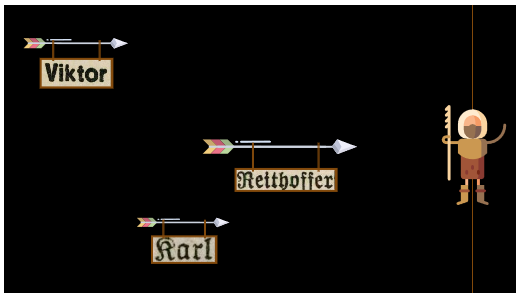
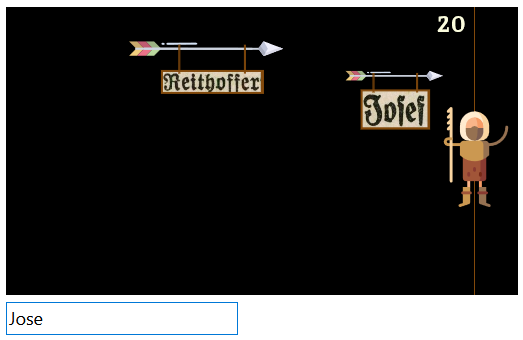
Updates

Changed region(s): [[0.0, 0.0, 1.0, 1.0], [0.3699, 0.4561, 0.7091, 0.6689]]

diff --git a/content/english/about/projects/zeitshift.md b/content/english/about/projects/zeitshift.md
@@ -1,7 +1,7 @@
 ---
 title: "Zeit.shift"
 description: "Digital in yesterday's future: Preservation, development and communication of the cultural and textual heritage of the whole of Tyrol"
-lead: "Digital in yesterday's future: Preservation, development and communication of the cultural and textual heritage of the whole of Tyrol"
+lead: "Digital in yesterday's future: Preservation, development and communication of the cultural and textual heritage of the whole of Tyrol."
 date: 2020-10-13T15:21:01+02:00
 lastmod: 2020-10-13T15:21:01+02:00
 draft: false
@@ -26,17 +26,48 @@ The project focuses on **historical newspapers**, which are currently scattered 
 
 **The mutual collaboration between researchers, librarians and citizens** will help improve the functionality of the web platform for users worldwide and serve as an **opportunity for local and foreign communities to learn more about** the historical and cultural heritage of **Tyrol**.
 
+The active participation of citizens is crucial to the success of the project. Given the large number of newspapers (approx. 500,000 pages), **the more people help curate the data and spread the word** about Zeit.shift, **the more searchable the newspaper corpus becomes and the longer the historical memory of Tyrol will be preserved**.
+
+### Digitisation
+
+Zeit.shift is scanning decaying newspapers and running the scans through Optical Character Recognition (OCR). OCR is the automatic conversion of printed text (e.g. an image of a newspaper page!) into digital format (e.g. a Word document). This process often introduces errors in the digital text, especially when dealing with historical sources: issues such as faded ink, complex fonts or poor quality scans affect the recognition capabilities of the OCR machine. A digital text containing OCR mistakes is known as "noisy" text. The noisier the text, the harder it is to use and search.
+
+Here is an example of a "noisy" conversion of a digitised newspaper in Zeit.shift:
+
+EXAMPLE
+
 
 ### How can I contribute?
 
-Zeit.shift develops games and activities to crowdsource data from citizens while guiding them through the materials to explore the history and culture of Tyrol.
+We need your help to do two things:
+
+1. Correct OCR mistakes
+2. Tag and classify words (names of people and places, parts-of-speech, etc.)
+
+You don't need to meet any prerequisites. Anyone can contribute!
+
+To make these tasks more engaging, we're developing games and activities designed to help you explore this wonderful collection of newspapers and the heritage of Tyrol as you contribute data! So far, we've developed one game and one activity.
 
 
-The active participation of citizens is crucial to the success of the project. Given the large number of newspapers (approx. 500,000 pages), **the more people help curate the data and spread the word** about Zeit.shift, **the more searchable the corpus becomes and the longer the historical memory of Tyrol will be preserved**.
+##### Game preview: OCR correction
 
-### Prototype
+This game adapts [Typespeed](http://typespeed.sourceforge.net/). The game comes with different scenarios. In the "Who Killed Ötzi?" scenario shown below, arrows carrying words in Fraktur script fly from the left to the right of the screen in the direction of [Ötzi the Iceman](https://www.iceman.it/en/the-iceman/). These words are people names extracted from the Tyrolean newspapers. The goal of the game is simple: players must type the names as fast as possible before they reach and kill Ötzi! The more words are typed the longer Ötzi lives and the more points the player collects. When Ötzi dies, players are shown the original newspaper page from which the killing name (the killer!) was taken, allowing them to explore its context.
 
-The prototype games and activities of the Zeit.shift are developed on a small selection of the entire project dataset, illustrated in the table below.
+{{<figure src="/images/wko.png" alt="Game preview" caption="<em>'Who killed Ötzi?' game preview.</em>" width="100%" class="border-0">}}
+
+##### Activity preview: Mapping advertisements
+
+In this activity, citizens geotag and, optionally, transcribe historical advertisements published in the newspapers in order to reconstruct the commercial landscape of 19th and 20th century Tyrol. Many shops from the time still exist today!
+
+{{<figure src="/images/historypin.png" alt="Historypin" caption="<em>Zeit.shift advertisements in Historypin.</em>" width="100%" class="border-0">}}
+
+
+<!--#### More to come...
+
+New activities and games will be announced through the All4Ling blog. Ideas and suggestions are always most welcome!-->
+
+<!--
+For testing purposes, these games and activities are developed on a small selection of the entire project dataset, .
 
 |Year  | Newspaper | N. pages |
 |------|-----------|---------:|
@@ -50,48 +81,28 @@ The prototype games and activities of the Zeit.shift are developed on a small se
 |      |                      |**Total pages**: 4456|
 
 
-##### Game: Who killed Ötzi?
-
-This game adapts [Typespeed](http://typespeed.sourceforge.net/). Arrows carrying words in gothic script fly from the left of the screen over to the right in the direction of [Ötzi the Iceman](https://www.iceman.it/en/the-iceman/). These words are randomly selected people names mentioned in the Tyrolean newspapers. The goal of the game is simple: players must type the words as fast as possible before they reach and kill Ötzi! The more words are typed the longer Ötzi lives, the more points the player collects. When Ötzi dies, players are shown the original newspaper page from which the killing word was taken, allowing them to explore its context.
-
-{{<figure src="/images/wko.png" alt="Game preview" caption="<em>Game preview.</em>" width="100%" class="border-0">}}
-
-##### Activity: Ad map
-
-In this activity, citizens geotag and, optionally, transcribe historical advertisements published in the newspapers in order to reconstruct the commercial landscape of 19th and 20th century Tyrol. Many shops from the time still exist today!
-
-{{<figure src="/images/historypin.png" alt="Historypin" caption="<em>Zeit.shift advertisements in Historypin.</em>" width="100%" class="border-0">}}
-
-
-<!--#### More to come...
-
-New activities and games will be announced through the All4Ling blog. Ideas and suggestions are always most welcome!-->
-
-
-
-
-### Join us!
-
-Sign-up for free to learn about how you can contribute to Zeit.shift.
-
-
-
-
-
-
-
+As the project progresses, our games and activities will be loaded with more content.-->
 
 ### Progress
 
 - 500,000 pages digitised
 - X tokens (words) digitised
 - X corrected tokens
-- X annotations
+- X contributed annotations
 - X unique participants
 
 
+<!--### Output
 
-### Details
+#### Publications
+
+...
+
+#### Presentations
+
+...-->
+
+### Project details
 
 **Team**
 - Landesbibliothek Dr. Friedrich Teßmann (Lead partner): Johannes Andresen
@@ -119,7 +130,7 @@ October 2020 - October 2022
 
 658,000 Euros
 
-[<img src="/images/interreg_logo.png" alt="Logo" width="20%" class="border-0">](https://interreg.eu/programme/interreg-italy-austria/)
+[<img src="/images/interreg_logo.jpg" alt="Logo" width="40%" class="border-0">](https://interreg.eu/programme/interreg-italy-austria/)
 
 **Objectives**
 
